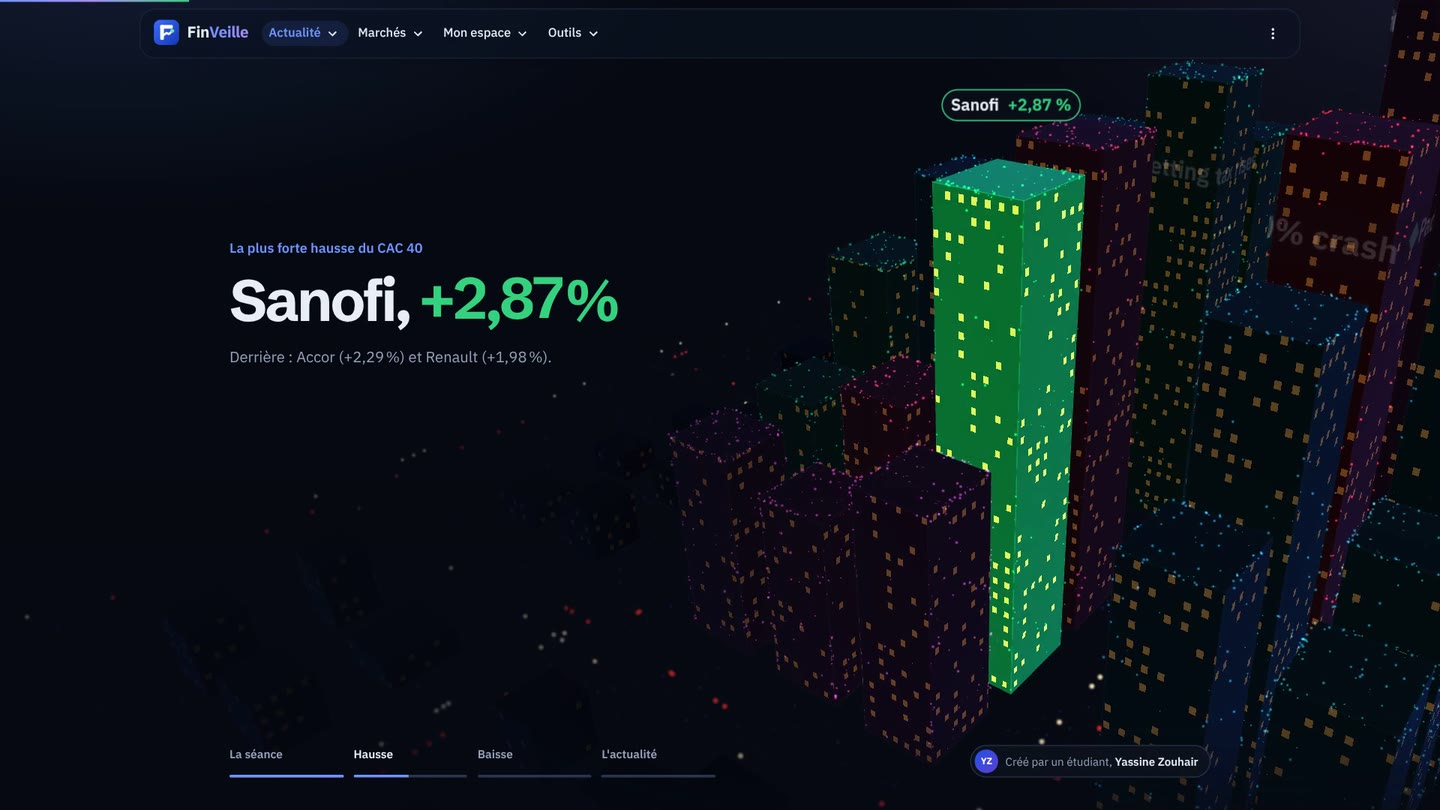
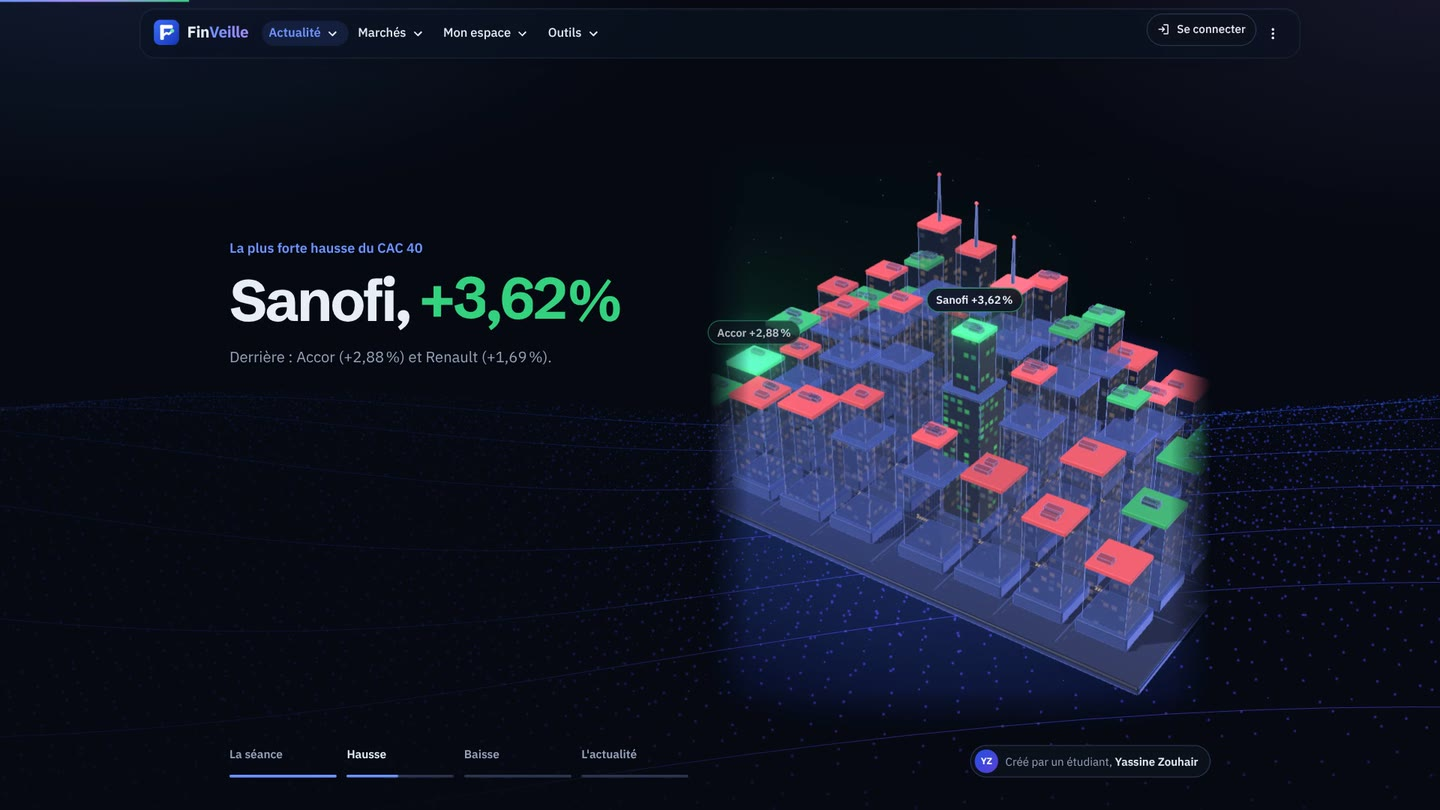
Étape 33 (en cours) : les 13 maquettes détaillées, guide 33, captures
Claude-Session: https://claude.ai/code/session_01SpDZZekPUjssTt5K9KSHka

diff --git a/finveille/static/fv3d/atelier.js b/finveille/static/fv3d/atelier.js
@@ -251,9 +251,9 @@ function newspaper(x, W, H, dark, front, seed) {   // une page de journal : en-t
     x.textAlign = "left";
     x.fillText("ÉDITION DU MATIN", M, 292);
     x.textAlign = "center";
-    x.fillText("MARCHÉS · ÉCONOMIE · ENTREPRISES", W / 2, 292);
+    x.fillText("MARCHÉS, ÉCONOMIE, ENTREPRISES", W / 2, 292);
     x.textAlign = "right";
-    x.fillText("BOURSE · TAUX · CRYPTOS", W - M, 292);
+    x.fillText("BOURSE, TAUX, CRYPTOS", W - M, 292);
     rule(304, 1);
     y = 372;
   }
@@ -316,7 +316,7 @@ function newspaper(x, W, H, dark, front, seed) {   // une page de journal : en-t
   x.fillStyle = mid;
   x.font = `600 14px ${FONT}`;
   x.textAlign = "center";
-  x.fillText("FINVEILLE · LA VEILLE FINANCIÈRE DU MATIN", W / 2, H - 28);
+  x.fillText("FINVEILLE, LA VEILLE FINANCIÈRE DU MATIN", W / 2, H - 28);
 }
 function fold(pal, W, D, material, layers, lean, edge, seed) {   // un journal plié en deux : deux moitiés qui se rejoignent au pli
   const g = new THREE.Group(), rnd = random(seed), th = 0.013;
@@ -1288,7 +1288,7 @@ function gear(data, pal, scene) {
     x.textAlign = "left";
     x.textBaseline = "middle";
     x.letterSpacing = `${ch * 0.1}px`;
-    x.fillText("MÉCANISME DE RÉGLAGE · N° 1", 0, ch * 0.54);
+    x.fillText("MÉCANISME DE RÉGLAGE, n° 1", 0, ch * 0.54);
   }, 200);
   plaque.position.set(cx - pw / 2 + 0.55 + 1.7, 0.21 + ph - 0.38, -0.494);
   root.add(border, plaque);

diff --git a/finveille/guide/33-maquettes-3d.md b/finveille/guide/33-maquettes-3d.md
@@ -3,10 +3,11 @@
 > **Objectif :** sortir la 3D du simple décor, en posant de vraies maquettes (ville, globe, pièces, assistant) dans les
 > pages, leur donner la matière du site plutôt qu'un look d'icône, et finir la bande-annonce sur de la musique.
 
-Fichiers créés : `static/fv3d/vitrines.js`, `static/fv3d/kit.js`, `tools/music.py`, `tools/vitrines_preview.py` (et son
-`.html`), `video/public/music.mp3`, le dossier `.claude/` (skills et agents), `CLAUDE.md`, ce guide. Fichiers modifiés :
-`scene3d.py`, `theme.py`, `static/fv3d/engine.js`, `tools/footage.py`, `video/src/Trailer.tsx`, les tests,
-`README.md`.
+Fichiers créés : `static/fv3d/vitrines.js`, `kit.js`, `models.js`, `atelier.js`, le dossier `static/fv3d/addons/`
+(modules de Three.js : environnement, boîtes arrondies, effets), `tools/music.py`, `tools/vitrines_preview.py` (et son
+`.html`), `video/public/music.mp3`, le dossier `.claude/` (skills et agents), `CLAUDE.md`, ce guide. Fichiers
+modifiés : `scene3d.py`, `theme.py`, `views/feed.py`, `views/crypto.py`, `static/fv3d/engine.js`, `tools/footage.py`,
+`video/src/Trailer.tsx`, `tests/test_market_theme.py`, `README.md`.
 
 ---
 
@@ -141,7 +142,7 @@ Le montage (`Trailer.tsx`) range chaque scène sur un nombre entier de mesures. 
 mesure fait 60 images. Avec `TransitionSeries`, une scène dure donc :
 
 ```text
-durée d'une scène = n mesures x 60 images + 15 images de fondu
+durée d'une scène = n mesures × 60 images + 15 images de fondu
 ```
 
 Toutes les coupes tombent ainsi sur un temps fort. La musique entre par `<Audio>` de `@remotion/media`, avec un fondu de

diff --git a/finveille/README.md b/finveille/README.md
@@ -14,7 +14,7 @@ entreprises et les thèmes de son utilisateur, affiche les cours des marchés mo
 Application web en Python (Streamlit), construite pas à pas : chaque étape est un commit, documenté dans
 [`guide/`](guide/README.md).
 
-![L'accueil de FinVeille raconte la séance : la plus forte hausse du CAC 40 et sa tour dans la ville 3D](docs/screenshots/fil-3d.jpg)
+![L'accueil de FinVeille raconte la séance : la plus forte hausse du CAC 40 s'allume dans la maquette 3D](docs/screenshots/fil-3d.jpg)
 
 ▶ [Voir la bande-annonce (48 s, avec sa musique)](docs/branding/trailer.mp4), montée en motion design avec Remotion sur une musique composée par le code : la séance du jour en chiffres, la maquette 3D du CAC 40, le globe de bureau des marchés, les pièces des cryptomonnaies, l'assistant IA. · [Démonstration des transitions (29 s)](docs/branding/demo.mp4)
 
